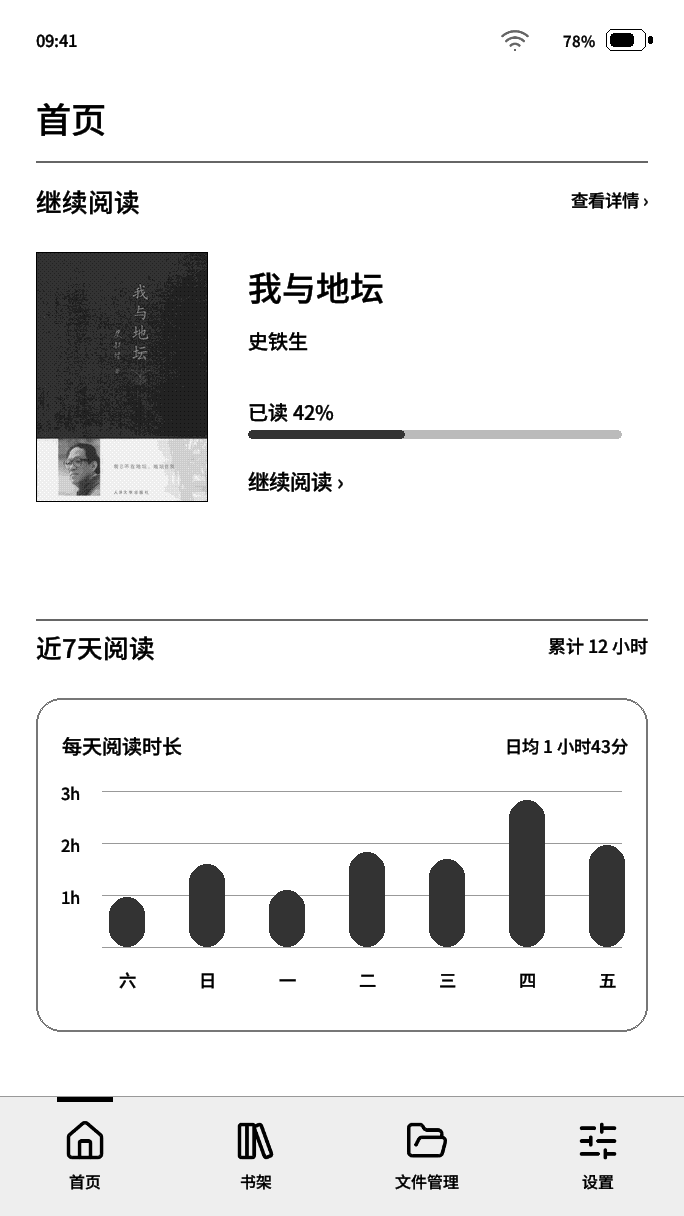
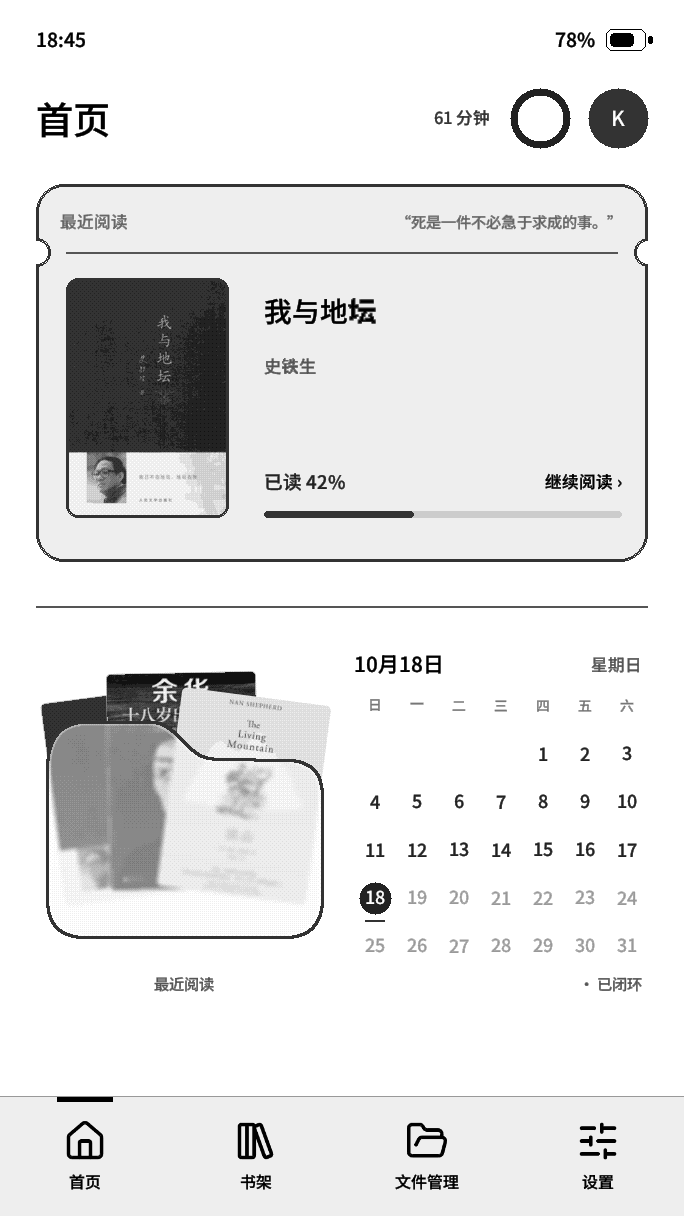
web: match homepage previews to released rc95 firmware

diff --git a/flash/index.html b/flash/index.html
@@ -13,7 +13,7 @@
   </script>
   <link rel="stylesheet" href="./site.css">
   <script src="./installer-bridge.js"></script>
-  <script src="./site.js" defer></script>
+  <script src="./site.js?v=rc95-home-20261018" defer></script>
   <link rel="stylesheet" href="./assets/manual-helper.css">
   <script src="./assets/manual-search.js" defer></script>
   <script src="./assets/manual-helper.js" data-index="./manual/manual-index.json" data-manual="./manual/" defer></script>
@@ -38,7 +38,7 @@
   </div>
   <div class="screen-gallery" aria-label="墨水屏界面展示">
     <div class="gallery-heading"><span class="eyebrow">SCREEN PREVIEW</span><span id="screen-counter">01 / 05</span></div>
-    <button class="screen-open" id="screen-open" type="button" aria-label="放大首页界面"><img id="screen-image" src="./assets/screens/home.png" alt="kiikoread 首页界面预览" width="684" height="1216"><span class="zoom-label">点击放大 <span aria-hidden="true">↗</span></span></button>
+    <button class="screen-open" id="screen-open" type="button" aria-label="放大首页界面"><img id="screen-image" src="./assets/screens/home-rc95-folder.png" alt="kiikoread 首页界面预览" width="684" height="1216"><span class="zoom-label">点击放大 <span aria-hidden="true">↗</span></span></button>
     <div class="screen-tabs" role="tablist" aria-label="选择预览界面">
       <button type="button" role="tab" id="tab-home" aria-selected="true" aria-controls="screen-caption" data-screen="home">首页</button>
       <button type="button" role="tab" id="tab-shelf" aria-selected="false" aria-controls="screen-caption" tabindex="-1" data-screen="shelf">书架</button>
@@ -47,8 +47,8 @@
       <button type="button" role="tab" id="tab-lock" aria-selected="false" aria-controls="screen-caption" tabindex="-1" data-screen="lock">锁屏</button>
     </div>
     <div id="screen-styles" class="screen-styles" role="group" hidden></div>
-    <p id="screen-caption" class="screen-caption" role="tabpanel" aria-labelledby="tab-home">继续阅读、阅读记录和常用操作，打开就能找到。</p>
-    <p class="preview-note">界面与书籍为展示示意，刷新效果以实机为准。</p>
+    <p id="screen-caption" class="screen-caption" role="tabpanel" aria-labelledby="tab-home">rc95 首页：阅读时长、目标圆环与资料卡头像，续读卡片搭配最近三本书和月阅读记录。</p>
+    <p class="preview-note">首页按 0.3.3-rc95 正式版绘制，书籍与阅读数据为示例；刷新效果以实机为准。</p>
   </div>
 </section>
 <div class="section-divider wrap"><span>少一点打扰，多一点阅读。</span><span>DESIGNED FOR READING</span></div>

diff --git a/flash/site.js b/flash/site.js
@@ -4,7 +4,16 @@
  */
 (() => {
   const screens = {
-    home: {label: "首页", caption: "继续阅读、阅读记录和常用操作，打开就能找到。", asset: "home"},
+    home: {label: "首页", styles: [
+      {label: "最近阅读书夹", asset: "home-rc95-folder", caption: "rc95 首页：阅读时长、目标圆环与资料卡头像，续读卡片搭配最近三本书和月阅读记录。"},
+      {label: "经典时钟", asset: "home-rc95-clock", caption: "经典时钟与月阅读记录并排，续读卡片保留书摘、作者和阅读进度。"},
+      {label: "圆形月相", asset: "home-rc95-moon", caption: "圆形月相刻度时钟，搭配右侧月历；首页组件可在设备上切换。"},
+      {label: "亚克力圆钟", asset: "home-rc95-kehai", caption: "磨砂表盘、长短指针与圆点秒针，沿用正式版的亚克力圆钟样式。"},
+      {label: "Cat Clock", asset: "home-rc95-cat", caption: "猫咪时钟搭配月阅读记录；这是静态预览，猫眼动效请以实机为准。"},
+      {label: "Dali Clock", asset: "home-rc95-dali", caption: "融化轮廓与罗马数字表盘，完整保留正式版首页的排版比例。"},
+      {label: "放射时钟", asset: "home-rc95-asterisk", caption: "深灰放射形表盘搭配清晰指针，与月阅读记录并排显示。"},
+      {label: "小屋时钟", asset: "home-rc95-house", caption: "小屋轮廓与布谷鸟时钟，让首页多一点趣味。"}
+    ]},
     shelf: {label: "书架", styles: [
       {label: "亚克力书架", asset: "shelf-acrylic", caption: "真实封面搭配亚克力书架，收藏优先，用底部箭头翻页。"},
       {label: "深色书轨", asset: "shelf-dark", caption: "深色书轨托起封面，清楚呈现每一本书。"},
@@ -22,7 +31,7 @@
   const screen = document.getElementById("screen-image");
   const styleGroup = document.getElementById("screen-styles");
   const dialog = document.getElementById("screen-dialog");
-  const selectedStyle = {shelf: 0, lock: 0};
+  const selectedStyle = {home: 0, shelf: 0, lock: 0};
   if (screen) {
     function showPreview(item) {
       screen.src = `./assets/screens/${item.asset}.png`;
@@ -61,6 +70,7 @@
         if (next !== undefined) { event.preventDefault(); selectScreen(tabs[next]); tabs[next].focus(); }
       });
     }
+    selectScreen(tabs.find(tab => tab.getAttribute("aria-selected") === "true") || tabs[0]);
     document.getElementById("screen-open").addEventListener("click", () => {
       document.getElementById("dialog-image").src = screen.src;
       document.getElementById("dialog-image").alt = screen.alt;
